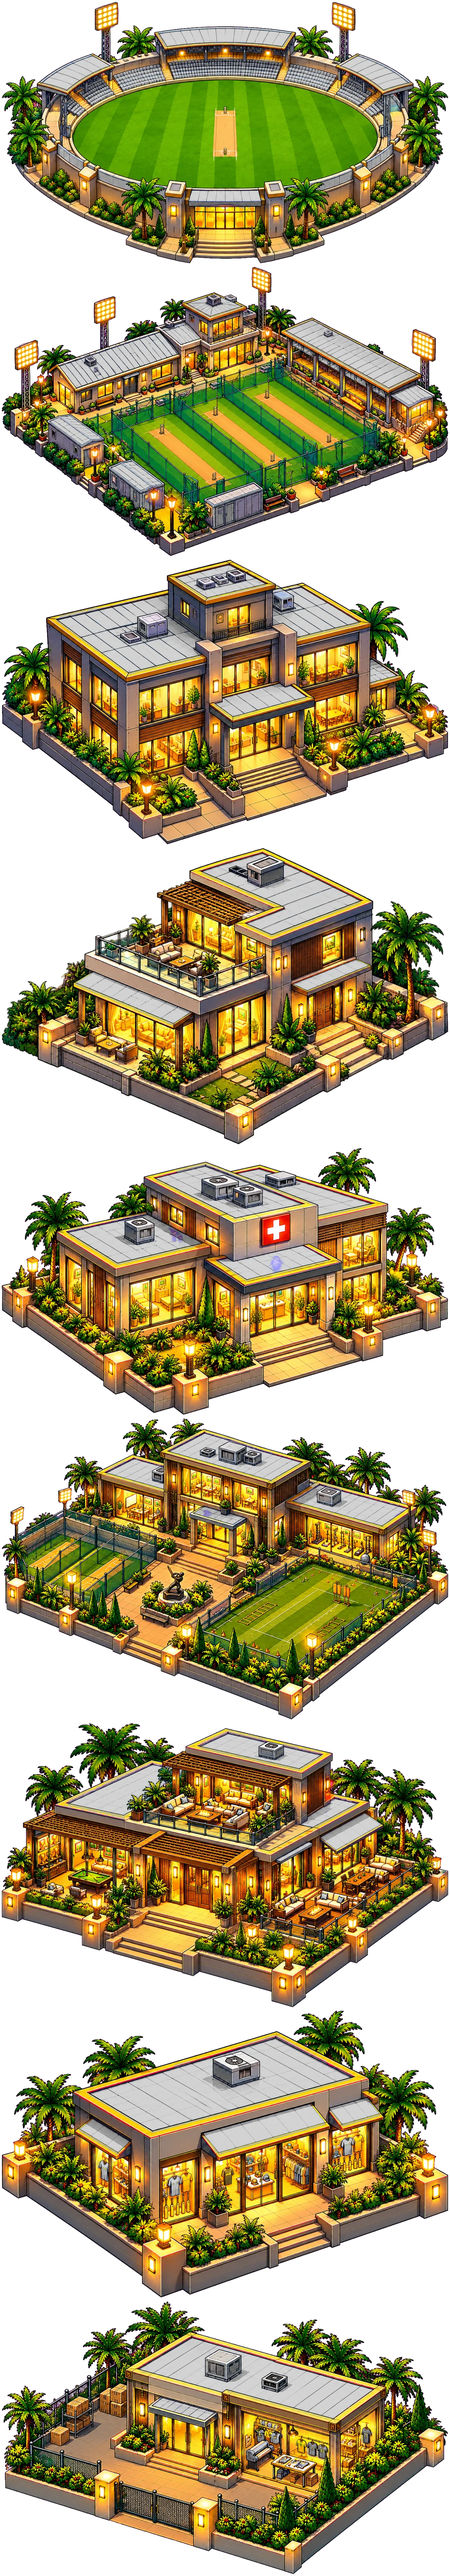
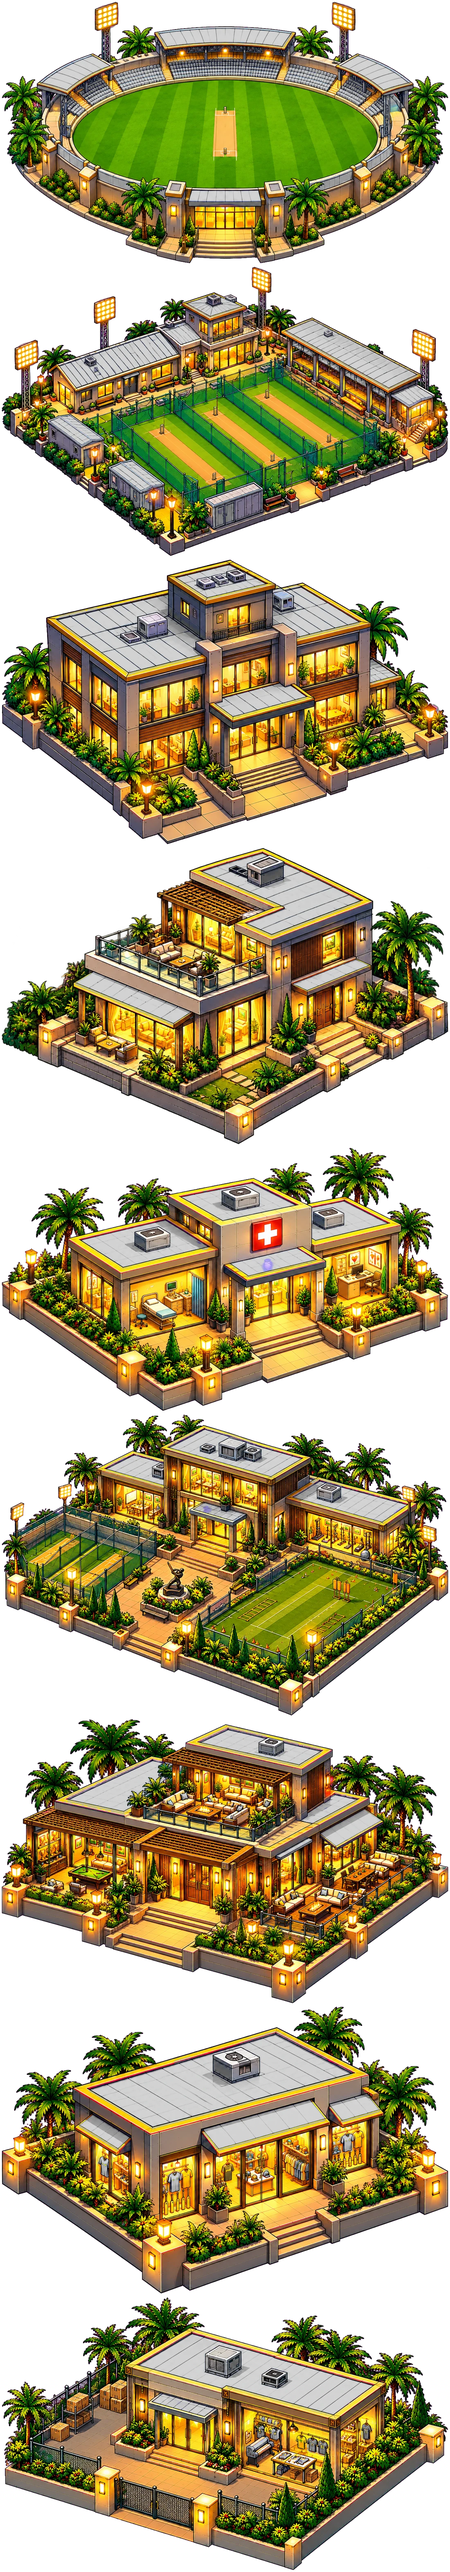
Club map: the level 1 medical centre (the earlier one kept as level 2, level 3 kept for later)
Claude-Session: https://claude.ai/code/session_01NK7tbrKg5PdA6fuyEUPXLd

diff --git a/js/clubmap.js b/js/clubmap.js
@@ -12,14 +12,14 @@ const SITES = {
   apartment:{ x: 0.725, y: 0.211, w: 0.314 },
   office:   { x: 0.224, y: 0.310, w: 0.316 },
   academy:  { x: 0.808, y: 0.356, w: 0.295 },
-  medical:  { x: 0.236, y: 0.569, w: 0.320 },
+  medical:  { x: 0.234, y: 0.570, w: 0.320 },
   clubhouse:{ x: 0.767, y: 0.582, w: 0.309 },
   shop:     { x: 0.231, y: 0.719, w: 0.341 },
   merch:    { x: 0.750, y: 0.749, w: 0.313 },
 };
 const ORDER = Object.keys(SITES).sort((a, b) => SITES[a].y - SITES[b].y);   // far to near, the near ones painted over the far
 // where each building is in img/map/buildings.webp (and its tint in buildings-tint.webp): [row, height], all 1100 wide (tools/build_map.py)
-const ATLAS = {"stadium": [0, 647], "training": [647, 714], "office": [1361, 704], "apartment": [2065, 732], "medical": [2797, 660], "academy": [3457, 743], "clubhouse": [4200, 702], "shop": [4902, 709], "merch": [5611, 675]};
+const ATLAS = {"stadium": [0, 647], "training": [647, 714], "office": [1361, 704], "apartment": [2065, 732], "medical": [2797, 651], "academy": [3448, 743], "clubhouse": [4191, 702], "shop": [4893, 709], "merch": [5602, 675]};
 const AW = 1100;
 const rgbOf = h => [1, 3, 5].map(i => parseInt(h.slice(i, i + 2), 16));
 const load = src => new Promise((res, rej) => { const im = new Image(); im.onload = () => res(im); im.onerror = rej; im.src = src; });

diff --git a/tools/fit_map_sites.py b/tools/fit_map_sites.py
@@ -21,7 +21,7 @@ plots=[]
 for i,sl in enumerate(ndi.find_objects(lab),1):
     if (lab[sl]==i).sum()>40000:
         ys,xs=np.where(lab==i); plots.append(dict(cx=(xs.min()+xs.max())/2,cy=(ys.min()+ys.max())/2,x0=xs.min(),x1=xs.max(),y1=ys.max()))
-ATLAS={"stadium":[0,647],"training":[647,714],"office":[1361,704],"apartment":[2065,732],"medical":[2797,660],"academy":[3457,743],"clubhouse":[4200,702],"shop":[4902,709],"merch":[5611,675]}
+ATLAS={"stadium":[0,647],"training":[647,714],"office":[1361,704],"apartment":[2065,732],"medical":[2797,651],"academy":[3448,743],"clubhouse":[4191,702],"shop":[4893,709],"merch":[5602,675]}
 atlas=Image.open(R+'img/map/buildings.webp').convert('RGBA'); al=np.array(atlas)[...,3]
 def pick(fx,fy): return min(plots,key=lambda p:(p['cx']/W-fx)**2+(p['cy']/H-fy)**2)
 assign={'stadium':(.503,.444),'training':(.34,.195),'apartment':(.735,.245),'office':(.224,.334),'academy':(.812,.382),'medical':(.24,.584),'clubhouse':(.766,.594),'shop':(.239,.739),'merch':(.749,.757)}
